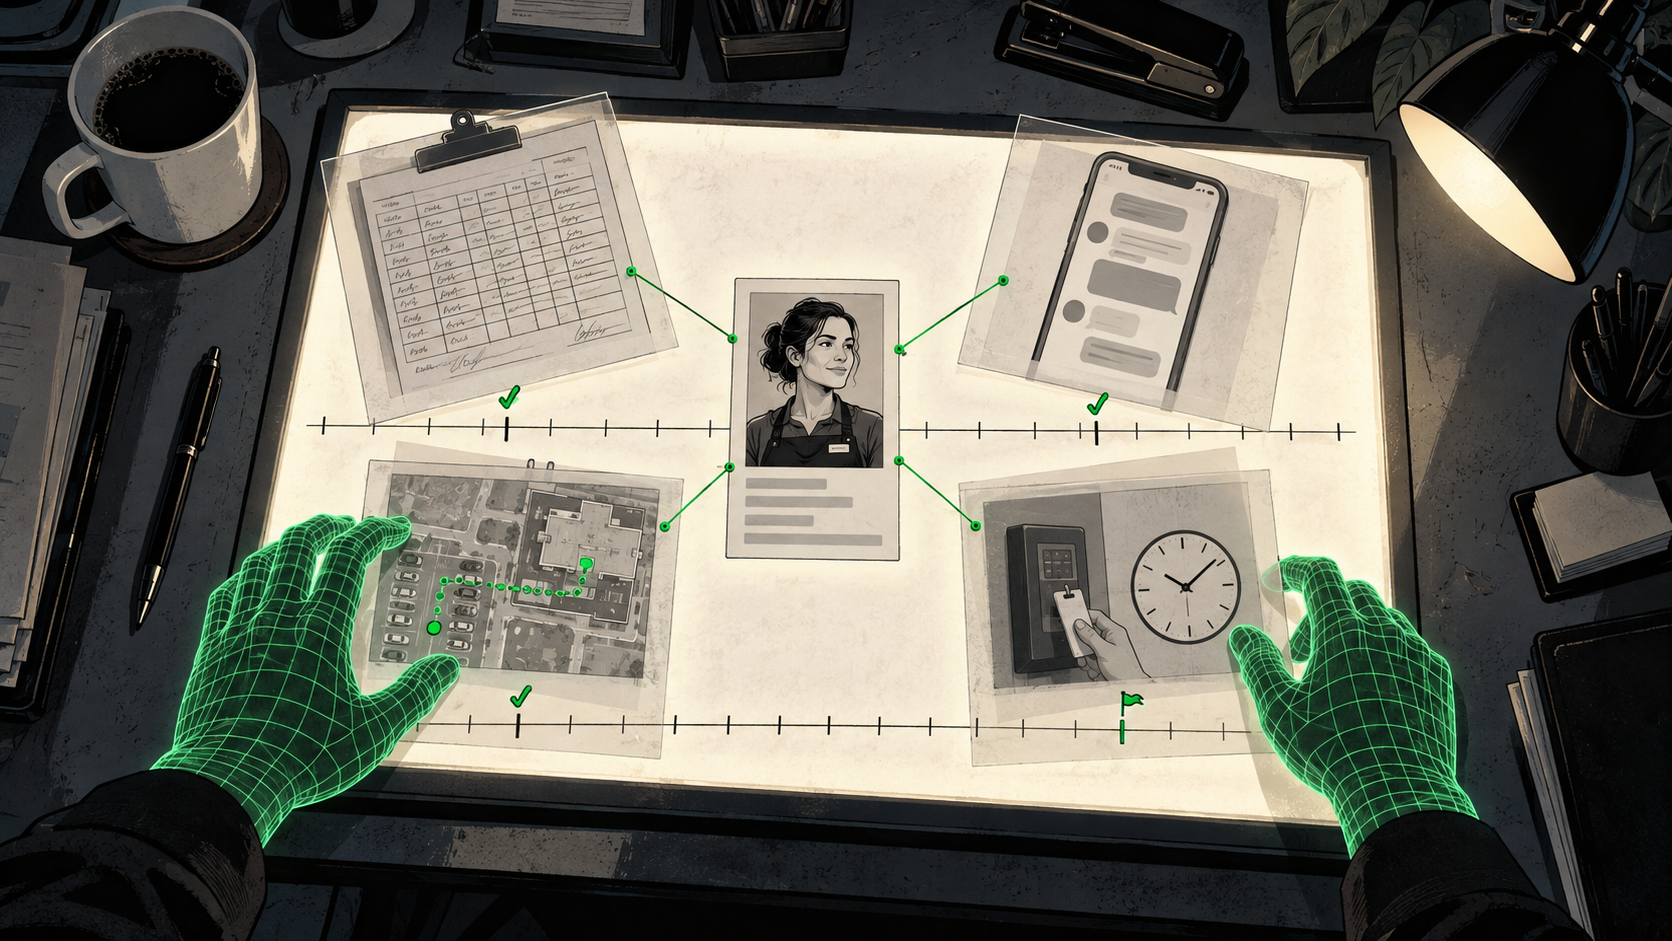
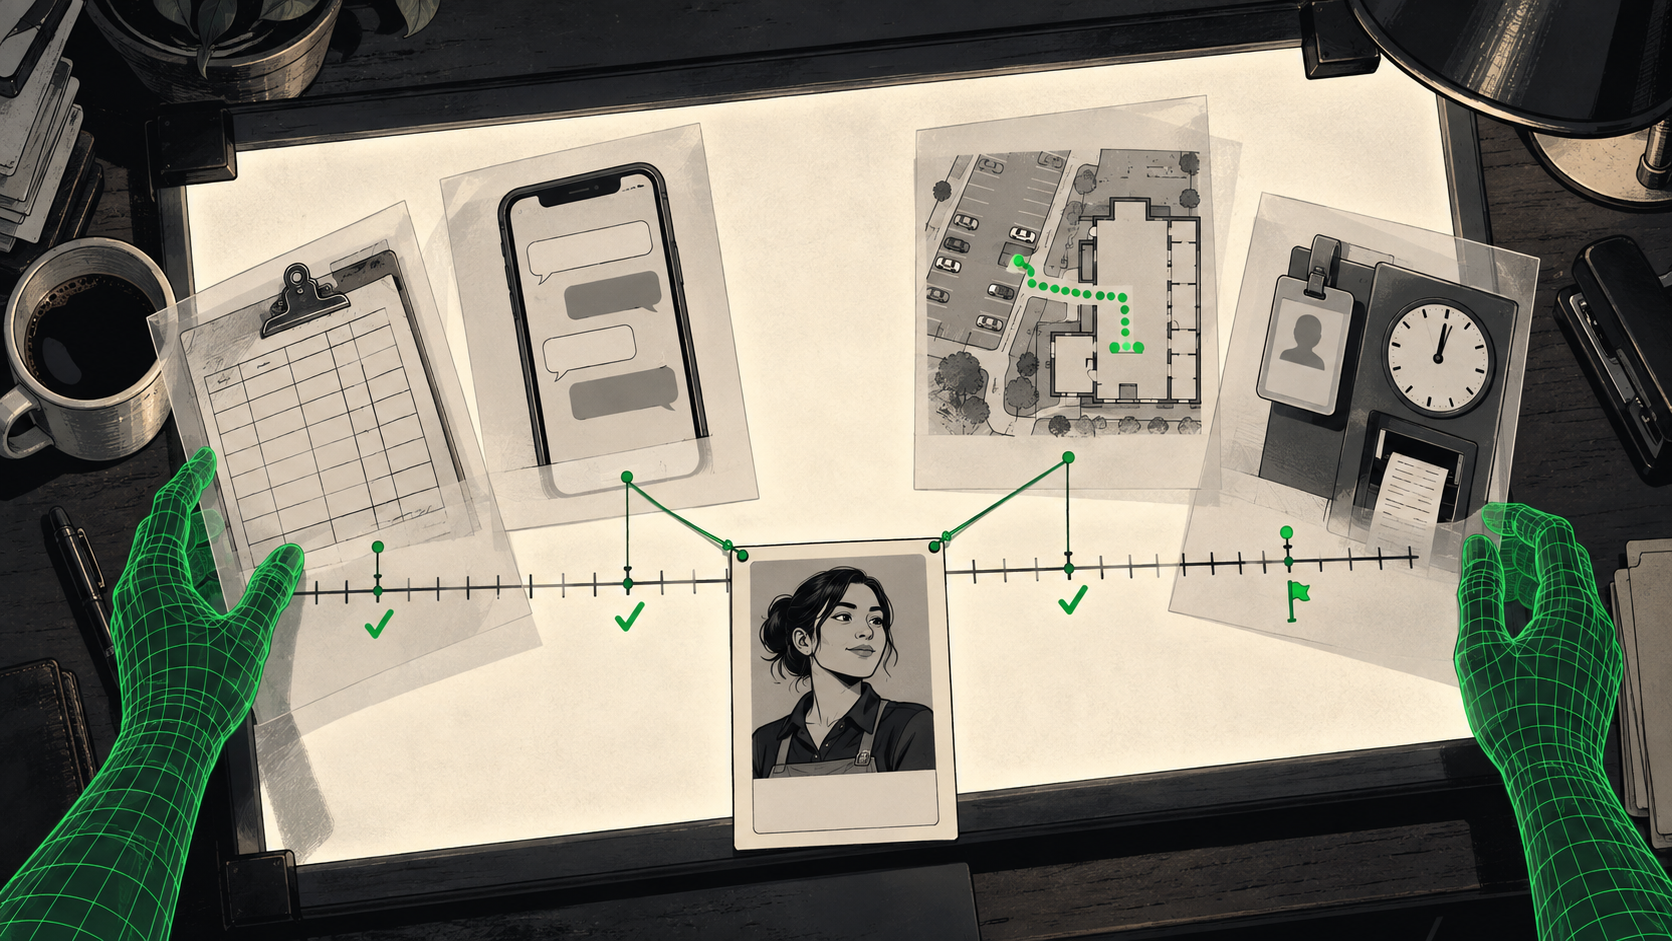
story: drop the flywheel slide; 17 slides
Claude-Session: https://claude.ai/code/session_01WeFBVZdtUQHxNr4TKy9Cv4

diff --git a/story/index.html b/story/index.html
@@ -15,7 +15,7 @@
 <body>
   <header class="chrome">
     <a class="brand" href="../"><img src="../logo-small.svg" alt="">HyperTrack</a>
-    <span class="counter"><span id="cur">01</span> / <span id="tot">18</span></span>
+    <span class="counter"><span id="cur">01</span> / <span id="tot">17</span></span>
   </header>
 
   <main class="deck" id="deck">
@@ -102,18 +102,9 @@
     </section>
 
     <section class="slide">
-      <figure class="frame" data-label="10 · flywheel"><img src="assets/10-flywheel.jpg" alt="An owner straining against a giant flywheel that has begun turning backwards"></figure>
-      <div class="copy">
-        <p class="eyebrow">10 · The flywheel</p>
-        <h1>If you don't pay workers as well as the new guys, the flywheel reverses.</h1>
-        <p>Reliable workers win customers. Customers bring shifts. Shifts keep workers. Lag on pay, and it turns the other way.</p>
-      </div>
-    </section>
-
-    <section class="slide">
       <figure class="frame" data-label="11 · one-coin"><img src="assets/11-one-coin.jpg" alt="A spinning coin between a worker's hand and a customer's hand"></figure>
       <div class="copy">
-        <p class="eyebrow">11 · One coin</p>
+        <p class="eyebrow">10 · One coin</p>
         <h1>Revenue protection and worker retention are two sides of the same coin.</h1>
         <p>Neither is ever locked in. Both sides can choose again tomorrow. Which is why you cannot afford to lag, and why the middle office cannot be an afterthought.</p>
       </div>
@@ -122,7 +113,7 @@
     <section class="slide">
       <figure class="frame" data-label="20-digital-worker"><img src="assets/20-digital-worker.jpg" alt="A wireframe digital worker logging into a holographic browser window, data flowing out on a cadence, more windows ghosted behind"><div class="logos"><img src="../logos/tiles/ukg.png" alt="ukg"><img src="../logos/tiles/adp.png" alt="adp"><img src="../logos/tiles/ubeya.png" alt="ubeya"><img src="../logos/tiles/7shifts.png" alt="7shifts"><img src="../logos/tiles/paylocity.png" alt="paylocity"><img src="../logos/tiles/deputy.png" alt="deputy"><img src="../logos/tiles/tempworks.png" alt="tempworks"><img src="../logos/tiles/avionte.png" alt="avionte"><img src="../logos/tiles/rippling.png" alt="rippling"><img src="../logos/tiles/wheniwork.png" alt="wheniwork"></div></figure>
       <div class="copy">
-        <p class="eyebrow">12 · Product</p>
+        <p class="eyebrow">11 · Product</p>
         <h1>Schedules and timesheets auto-ingest, with AI.</h1>
         <p>A digital worker logs into UKG, ADP, Ubeya, 7shifts or whatever your sites already run, in a virtual browser, and pulls punches and schedules out on a cadence. No integration project.</p>
       </div>
@@ -131,7 +122,7 @@
     <section class="slide">
       <figure class="frame" data-label="22-live-map"><img src="assets/22-live-map.jpg" alt="Ops room wall map with geofenced facilities and live worker dots"></figure>
       <div class="copy">
-        <p class="eyebrow">13 · Product</p>
+        <p class="eyebrow">12 · Product</p>
         <h1>Location is tracked in real time.</h1>
         <p>Every worker's phone reports where they actually are. Arrivals, departures and gaps show up on the map while the shift is happening, not at the end of the week.</p>
       </div>
@@ -140,7 +131,7 @@
     <section class="slide">
       <figure class="frame" data-label="23-paper-to-sms"><img src="assets/23-paper-to-sms.jpg" alt="Worker photographing a paper timesheet into a text; nurse taking a call from the agent"></figure>
       <div class="copy">
-        <p class="eyebrow">14 · Product</p>
+        <p class="eyebrow">13 · Product</p>
         <h1>Paper timesheets come in by text. Clock-ins by text and phone call.</h1>
         <p>A photo of the clipboard is enough. When a punch is missing, the agent texts or calls the worker and takes the answer. No app to install, nothing for a clerk to key in.</p>
       </div>
@@ -149,7 +140,7 @@
     <section class="slide">
       <figure class="frame" data-label="25-collate"><img src="assets/25-collate.jpg" alt="Four sources fanned on a lightbox around one shift card: paper timesheet, text thread, GPS trail, kiosk punch, aligned on one timeline"></figure>
       <div class="copy">
-        <p class="eyebrow">15 · Product</p>
+        <p class="eyebrow">14 · Product</p>
         <h1>Every source is collated and compared, shift by shift.</h1>
         <p>The paper timesheet, the conversation with the worker, the phone's location, the UKG punch. Laid on one timeline for the same shift. Where they agree, it's done. Where they don't, that's the exception.</p>
       </div>
@@ -158,7 +149,7 @@
     <section class="slide">
       <figure class="frame" data-label="21-flag-to-formula"><img src="assets/21-flag-to-formula.jpg" alt="Three panels: a flagged shift card, a highlighted clause in a wage order, and the compiled rule on a chalkboard"></figure>
       <div class="copy">
-        <p class="eyebrow">16 · Product</p>
+        <p class="eyebrow">15 · Product</p>
         <h1>Payroll rules are applied to every shift.</h1>
         <p>The agent raises the flag. The flag points at one paragraph in the wage order or the client contract. That paragraph is compiled into one line the engine runs on every shift.</p>
       </div>
@@ -167,7 +158,7 @@
     <section class="slide">
       <figure class="frame" data-label="17-agent-conversation"><img src="assets/17-agent-conversation.jpg" alt="Worker on a loading dock answering a text while a flagged shift resolves"></figure>
       <div class="copy">
-        <p class="eyebrow">17 · Product</p>
+        <p class="eyebrow">16 · Product</p>
         <h1>Discrepancies are mediated agentically.</h1>
         <p>A disputed break, an extra hour, a missing clock-out. The agent takes it to the worker and the supervisor while it is fresh, collects the answers and closes it out with the evidence attached.</p>
       </div>
@@ -176,7 +167,7 @@
     <section class="slide">
       <figure class="frame" data-label="24-upload"><img src="assets/24-upload.jpg" alt="The wireframe digital worker feeding stamped shift cards into a holographic payroll window at dawn"><div class="logos"><img src="../logos/tiles/adp.png" alt="adp"><img src="../logos/tiles/paylocity.png" alt="paylocity"><img src="../logos/tiles/gusto.png" alt="gusto"><img src="../logos/tiles/paychex.png" alt="paychex"><img src="../logos/tiles/rippling.png" alt="rippling"><img src="../logos/tiles/quickbooks.png" alt="quickbooks"></div></figure>
       <div class="copy">
-        <p class="eyebrow">18 · Product</p>
+        <p class="eyebrow">17 · Product</p>
         <h1>Then it goes to payroll. As fast as possible, agentically.</h1>
         <p>The same digital worker logs into ADP, Paylocity or Gusto and uploads the approved hours through the browser the moment the cycle closes. Held shifts wait with their reason. Everyone else gets paid right, on time.</p>
       </div>
@@ -188,6 +179,6 @@
     <button type="button" id="prev" aria-label="Previous">←</button>
     <button type="button" id="next" aria-label="Next">→</button>
   </nav>
-  <script src="deck.js?v=8"></script>
+  <script src="deck.js?v=9"></script>
 </body>
 </html>

diff --git a/story/README.md b/story/README.md
@@ -1,6 +1,6 @@
 # Protect your revenue — middle-office storyboard deck
 
-Eighteen slides, all illustrated storyboard frames in one language. No UI screenshots, no close slide. Narrative: tech-enabled staffing firms deploy AI faster; AI has done recruiting and matching, the middle office (pay and bill) is next; workers and customers both re-choose you every day, so pay accuracy is revenue protection (frames 01–12). Then the product story in six beats (slides 12–18): data auto-ingests with a digital worker in a virtual browser (real vendor tiles from `logos/tiles/` overlaid), location tracked in real time, paper timesheets and clock-ins by SMS and phone call, every source collated and compared on one timeline, payroll rules applied (flag → clause → compiled rule), discrepancies mediated agentically, then uploaded to payroll agentically through the browser. 
+Seventeen slides, all illustrated storyboard frames in one language. No UI screenshots, no close slide. Narrative: tech-enabled staffing firms deploy AI faster; AI has done recruiting and matching, the middle office (pay and bill) is next; workers and customers both re-choose you every day, so pay accuracy is revenue protection (frames 01–12). Then the product story in six beats (slides 11–17): data auto-ingests with a digital worker in a virtual browser (real vendor tiles from `logos/tiles/` overlaid), location tracked in real time, paper timesheets and clock-ins by SMS and phone call, every source collated and compared on one timeline, payroll rules applied (flag → clause → compiled rule), discrepancies mediated agentically, then uploaded to payroll agentically through the browser. 
 
 Live at https://closeoutcopilot.com/story/. Locally, serve from the repo root so the shared logo and hero sprites load:
 

diff --git a/story/assets/raw/manifest.md b/story/assets/raw/manifest.md
@@ -25,3 +25,4 @@
 22-live-map.png | /Users/vibes/.codex/generated_images/01a091a8-d66d-7b42-b6ab-823ad718fcd0/exec-f7efd910-0e7f-40ce-acf0-188fc5a705be.png | retry once: strengthened no text of any kind after monitor labels and branding marks; accepted second attempt
 24-upload.png | /Users/vibes/.codex/generated_images/01a091a8-d66d-7de2-ab0a-6b6a3fc37281/exec-e6322aaf-d859-42ce-aa85-99e9de19a686.png | retry once: stopwatch numerals and faint table labels in first attempt; strengthened no text of any kind; accepted second attempt
 23-paper-to-sms.png | /Users/vibes/.codex/generated_images/01a091a8-d66d-7c70-9b8b-079e3f26672c/exec-90bf32f2-5acc-4759-890e-223d600d39d5.png | retry once: logo-like lettering on vending packaging; strengthened no text of any kind; accepted second attempt
+25-collate.png | /Users/vibes/.codex/generated_images/01a091e4-531e-7740-b4c0-241d94f91c91/exec-538e267f-125d-41b9-a37a-8e539561e00b.png | retried once: handwriting in first attempt; strengthened no text of any kind; accepted second attempt

diff --git a/story/assets/raw/last-25.md b/story/assets/raw/last-25.md
@@ -1,0 +1,1 @@
+FRAME 25 DONE
